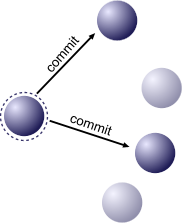
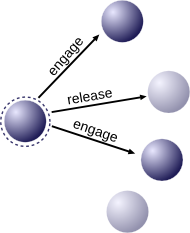
falta resumir pra 8 paginas

diff --git a/2015/tdp/multiagent.tex b/2015/tdp/multiagent.tex
@@ -30,7 +30,7 @@ Equation \ref{eq:egap-total-reward2} determines that agents must allocate tasks 
 	W = \sum_t \sum_{i^t \in \agentset^t} \sum_{j^t \in \taskset^t} w_{ij}^t \times a_{ij}^t - 
 	\sum_t \sum_{j^t \in \taskset^t}(1 - a_{ij}^t) \times d_j^t 
 	\end{equation}
-	\\
+	
 	\begin{equation}
 	\label{eq:egap-total-reward2}
 	\text{ subject to:~~~~~~~~}	
@@ -71,7 +71,7 @@ Regarding independent, i.e., non-constrained tasks, in eXtreme-Ants, agents indi
 \STATE When message is received: $token \gets$ \{received token\}
 
 \FORALL{task $j \in token$} 
-\STATE{Compute and normalize \tendency{i}{j} for all tasks in token}
+\STATE{Compute and normalize \tendency{i}{j} for all tasks in $token$}
 \IF{$random() < \tendency{i}{j}$ and $\agtres{i} > c_{ij}$ }
 \STATE{Engage in task $j$}
 \STATE{$token \gets token \setminus \{j\}$}
@@ -85,31 +85,59 @@ Regarding independent, i.e., non-constrained tasks, in eXtreme-Ants, agents indi
 \label{alg:x-ants}
 \end{algorithm}
 
-To deal with AND-constraints among tasks, eXtreme-Ants uses a process inspired in the recruitment process for cooperative transport observed among ants. When an agent perceives a set of inter-constrained tasks \andtasks{}, it acts as a scout ant. Firstly it attempts to perform all the constrained tasks. If it fails, then it begins a recruitment process. This process is based on communication. There are five kinds of messages used in the recruitment protocol of eXtreme-Ants. A \textit{request} message is an invitation for an agent to join the recruitment for a task. A \textit{commited} message is sent to inform  that the agent joined the recruitment for a task. A \textit{engage} message informs that the agent was indeed selected to perform the task. A \textit{release} message informs that the agent was not selected to perform the task and must decommit to it. A \textit{timeout} message informs that a request for a task has reached its timeout, and is used to prevent deadlocks. The handling of AND-constrained tasks is formalized in Alg. \ref{alg:x-ants-comm}.
+To deal with AND-constraints among tasks, i.e. groups of tasks that demand simultaneous execution, eXtreme-Ants uses a process inspired in the recruitment process for cooperative transport observed among ants. When an agent perceives a set of inter-constrained tasks, it acts as a scout ant. Firstly it attempts to perform all the constrained tasks. If it fails, then it begins a recruitment process via communication. There are five kinds of messages used in the recruitment protocol of eXtreme-Ants. A \msg{request} message is an invitation for an agent to join the recruitment for a task. A \msg{committed} message is sent to inform  that the agent joined the recruitment for a task. A \msg{engage} message informs that the agent was indeed selected to perform the task. A \msg{release} message informs that the agent was not selected to perform the task and must de-commit to it. A \msg{timeout} message informs that the request has expired. Figure \ref{fig:auction} illustrates the recruitment process, except the timeout mechanism. An agent decides to commit to a task probabilistically, via Eq. \ref{eq:tendency}. 
 
+\begin{figure}[ht]
+  \centering
+  \subfigure[]{
+    {\includegraphics[width=3cm]{img/request.png}}
+    \label{fig:request}
+  }%
+  \subfigure[]{
+    {\includegraphics[width=3cm]{img/offer.png}}
+    \label{fig:offer}
+  }%
+  \subfigure[]{
+    {\includegraphics[width=3cm]{img/commit.png}}
+    \label{fig:commit}
+  }%
 
-\begin{algorithm}[ht]
-\begin{algorithmic}
-\STATE When set of constrained tasks \andtasks{} is perceived:
-\STATE{$\beta \gets \emptyset$}
-\IF{ $\agtres{i} \geq \sum_{j \in \andtasks{}} \consumes{i}{j}$}
-	\STATE{Compute and normalize \tendency{i}{j} for all tasks in token}
-	\FORALL{task $j \in \andtasks{}$}
-		\IF{$random() < \tendency{i}{j}$ }
-			\STATE{Accept task $j$; $\beta \gets \beta \cup \{j\}$; $\andtasks{} \gets \andtasks{} \setminus \{j\}$}
-		\ENDIF
-		\IF{All tasks in $\andtasks{}$ were accepted, i.e., $\beta = \andtasks{}$}
-			\STATE{Perform all tasks and set $\agtres{i} \gets \agtres{i} - \sum_{j \in \andtasks{}} \consumes{i}{j}$}
-		%\ELSE
-		%	\STATE{Discard all accepted tasks and set: $\andtasks{} \gets \andtasks{} \cup \beta$}
-	    \ENDIF
-    \ENDFOR 
-\ENDIF
-\STATE{recruit($\andtasks{} \setminus \beta$)}
-\end{algorithmic}
-\caption{Constrained task monitor}
-\label{alg:x-ants-comm}
-\end{algorithm}
+  \caption{Recruitment process: \subref{fig:request} recruiter (circled with dashed line) sends \msg{request} messages; \subref{fig:offer} agents who decide to help respond with \msg{committed} messages; \subref{fig:commit} recruiter sends \msg{engage} to selected teammates and dismisses non-selected ones with \msg{release} messages.}
+
+ \label{fig:auction}
+\end{figure}
+
+In addition to the steps presented in Fig. \ref{fig:auction}, in eXtreme-Ants, a \msg{request} message is forwarded when the agent who received it decides to not commit to the task. Besides, there is a mechanism to prevent excessive forwarding of \msg{request} messages: when a \msg{request} message is forwarded too many times, it expires. The agent that received an expired \msg{request} message sends a \msg{timeout} message to the scout (recruiter) agent. The scout, upon receipt of \msg{timeout} messages, sends \msg{release} messages to dismiss agents that had previously committed to the task. 
+
+The choice of eXtreme-Ants for the multi-agent competition is due to its performance in terms of team reward, computational effort and exchanged messages compared to other E-GAP-based algorithms. Also, it would be interesting to compare its performance with factor-graph based algorithms, such as max-sum, which is implemented in RMASBench \citep{Kleiner+2013}. For further details of eXtreme-Ants implementation and performance, the reader can refer to \citep{Santos&Bazzan2009optmas}.
+
+%The recruitment process used in the Agent competition (Section \ref{sec:recruiting}) a simplification of the recruitment process of eXtreme-Ants. %Thus, Fig. \ref{fig:auction} also illustrates the recruitment process presented here. 
+%In the agent competition we use a simplified version of
+%A \textit{timeout} message informs that a request for a task has reached its timeout, and is used to prevent deadlocks. The handling of AND-constrained tasks is formalized in Alg. \ref{alg:x-ants-comm}.
+
+%
+%\begin{algorithm}[ht]
+%\begin{algorithmic}
+%\STATE When set of constrained tasks \andtasks{} is perceived:
+%\STATE{$\beta \gets \emptyset$}
+%\IF{ $\agtres{i} \geq \sum_{j \in \andtasks{}} \consumes{i}{j}$}
+%	\STATE{Compute and normalize \tendency{i}{j} for all tasks in token}
+%	\FORALL{task $j \in \andtasks{}$}
+%		\IF{$random() < \tendency{i}{j}$ }
+%			\STATE{Accept task $j$; $\beta \gets \beta \cup \{j\}$; $\andtasks{} \gets \andtasks{} \setminus \{j\}$}
+%		\ENDIF
+%		\IF{All tasks in $\andtasks{}$ were accepted, i.e., $\beta = \andtasks{}$}
+%			\STATE{Perform all tasks and set $\agtres{i} \gets \agtres{i} - \sum_{j \in \andtasks{}} \consumes{i}{j}$}
+%		%\ELSE
+%		%	\STATE{Discard all accepted tasks and set: $\andtasks{} \gets \andtasks{} \cup \beta$}
+%	    \ENDIF
+%    \ENDFOR 
+%\ENDIF
+%\STATE{recruit($\andtasks{} \setminus \beta$)}
+%\end{algorithmic}
+%\caption{Constrained task monitor}
+%\label{alg:x-ants-comm}
+%\end{algorithm}
 
 
 %\subsection{E-GAP as a DCOP}
@@ -141,6 +169,4 @@ To deal with AND-constraints among tasks, eXtreme-Ants uses a process inspired i
 %The constraint graph of this DCOP formulation is complete, as there is a constraint between each pair of variables. The total number of constraints can be calculated as $\frac{|\variables|(|\variables|-1)}{2}$. The number of constraints grows quadratically with the number of agents (as each agent is represented by a variable). The domain of the variables, on the worst case, where all agents can allocate all tasks is $2^{t}$ where $t$ is the number of tasks. That is, the domain grows exponentially with the number of tasks. This complex DCOP model requires approximate algorithms to be solved.
 %
 %
-%Usando a divisão do trabalho em colônias de insetos sociais como inspiração para um algoritmo de coordenação entre agentes, \cite{Ferreira2008} apresenta o Swarm-GAP. Nele, cada tarefa possui um estímulo associado e cada indivíduo possui um limiar de resposta associado a cada tarefa. Este limiar depende da habilidade do agente para realizar a tarefa. A probabilidade de um agente alocar uma tarefa para si depende, portanto, do estímulo e ao seu limiar de resposta associados a esta tarefa. O Swarm-GAP reduz a comunicação entre agentes e o esforço computacional para se calcular a alocação de tarefas e obtém resultados semelhantes ao LA-DCOP. No entanto, a decisão probabilística na alocação de tarefas do Swarm-GAP não auxilia a formação de grupos de agentes para lidar com tarefas interdependentes, que requerem execução simultânea, e isso pode ser crítico em alguns casos.
-%
-%O algoritmo eXtreme Ants \cite{Santos2009F}, de maneira similar ao Swarm-GAP, é inspirado na divisão do trabalho de insetos sociais. No entanto, para lidar com a questão de formação de grupos de agentes para tarefas interdependentes, o eXtreme Ants apresenta um processo de recrutamento inspirado no recrutamento para transporte cooperativo em colônias de formigas. Comparado ao LA-DCOP, o eXtreme Ants obtém uma recompensa global próxima, com menos comunicação e esforço computacional. Comparado ao Swarm-GAP, o eXtreme Ants consegue melhores recompensas globais, particularmente na presença de tarefas interdependentes.
+

diff --git a/2015/tdp/conclusion.tex b/2015/tdp/conclusion.tex
@@ -1,10 +1,11 @@
 \section{Conclusion}
 
-To address the challenge posed by a disaster situation, we present an approach that relies on autonomous decision-making agents. This means that no field or center agent can directly assign a task to other agent. Each agent decides the task it will engage based on its current knowledge, accumulated from observation and message receiving. Cooperation emerges when agents decide to engage in the same task, or when help is requested via a recruitment method based on a simple three-step auction. Even during recruitment, agents are not directly recruited: they can decide whether to offer help to the recruiter or not. The role of center agents is informational, thus in their absence, the decision-making process of field agents does not change.
+To address the challenge posed by the agent competition, we present an approach that relies on autonomous decision-making agents. This means that no field or center agent can directly assign a task to other agent. Each agent decides the task it will engage based on its current knowledge, accumulated from observation and communication. Cooperation emerges when agents decide to engage in the same task, or when help is requested via a recruitment method based which is a simplification eXtreme-Ants recruitment process. Even during recruitment, agents are not directly recruited: they can decide whether to offer help to the recruiter or not. The role of center agents is informational, thus in their absence, the decision-making process of field agents does not change.
 
-Our approach relies on map sectorization in order to limit the scope of action of each field agent. The task allocation of field agents is based on the score that they assign to each task, which is associated with the importance and difficulty level of solving the task. 
+Our approach relies on map sectorization in order to limit the scope of action of each field agent. The task allocation of field agents is based on the score that they assign to each task, which is associated with the importance and difficulty level of solving the task. We believe that the proposed approach is flexible and robust. Flexibility comes from the fact that the task allocation process for all agents is similar: they assign scores to the tasks that they know and engage in the task with the highest score. Robustness comes from the fact that agents do not depend on each other to decide which task to engage. Thus, the approach can work for several configurations of team sizes and presence of center agents.
 
-We believe that the proposed approach is flexible and robust. Flexibility comes from the fact that the task allocation process for all agents is similar: they assign scores to the tasks that they know and engage in the task with the highest score. Robustness comes from the fact that agents do not depend on each other to decide which task to engage. Thus, the approach can work for several configurations of team sizes and presence of center agents.
+For the multi-agent competition, we choose to implement eXtreme-Ants in the RMASBench. The algorithm compares favorably to other E-GAP based approaches in terms of team reward, computational effort and exchanged messages. This implementation represents a scientific contribution as we can establish the first comparison of E-GAP and factor graph-based approaches for task allocation in dynamic environments in a single framework.
+%Also, it would be interesting to compare its performance with factor-graph based algorithms, such as max-sum, which is implemented in RMASBench \citep{Kleiner+2013}. For further details of eXtreme-Ants implementation and performance, the reader can refer to \citep{Santos&Bazzan2009optmas}.
 
 %falar das estrategias gerais; resultados esperados
 % em suma, nossos agentes sao 'autonomos', isto eh, nao recebem ordem direta de outros agentes, mas deliberam por conta propria se vao realizar as tarefas ou nao

diff --git a/2015/tdp/communication.tex b/2015/tdp/communication.tex
@@ -18,27 +18,9 @@ In order to save radio bandwidth and maximize the amount of data shared between 
 
 \subsubsection{Recruiting protocol}
 \label{sec:recruiting}
-When an agent estimates that it needs help to perform a task, it starts an auction which consists of the following three steps: first, a ``request'' message is sent by the recruiter agent. Agents who receive the ``request'' message and are available to help  send back an ``offer'' message. Receiving the ``offer'' messages allow the recruiter agent to select the colleagues that will help best in the task. A ``commit'' message is sent to the selected colleagues. Figure \ref{fig:auction} illustrates the three-step auction.
+When an agent estimates that it needs help to perform a task, it starts a recruitment process which consists of the following three steps: first, a \msg{request} message is sent by the recruiter agent to other agents. Agents who receive the \msg{request} message and are available to help  send back an \msg{committed} message. Receiving \msg{committed} messages allows the recruiter agent to select the teammates that will help best in the task. \msg{Engage} messages are sent to the selected teammates and \msg{release} messages are sent to non-selected teammates. This process is a simplification of the recruitment protocol of eXtreme-Ants algorithm (Section \ref{sec:multi-agent}). Figure \ref{fig:auction} illustrates the three-step recruitment process.
 
-\begin{figure}[ht]
-  \centering
-  \subfigure[]{
-    {\includegraphics[width=3cm]{img/request.png}}
-    \label{fig:request}
-  }%
-  \subfigure[]{
-    {\includegraphics[width=3cm]{img/offer.png}}
-    \label{fig:offer}
-  }%
-  \subfigure[]{
-    {\includegraphics[width=3cm]{img/commit.png}}
-    \label{fig:commit}
-  }%
-
-  \caption{Three-step auction: \subref{fig:request} recruiter (circled with dashed line) sends ``request'' messages; \subref{fig:offer} agents who decide to help respond with ``offer'' messages; \subref{fig:commit} recruiter selects colleagues to help and sends ``commit'' messages.}
-
- \label{fig:auction}
-\end{figure}
+% THIS IS A SIMPLIFICATION OF X-ANTS
 
 It should be noted that messages are always broadcasted in a given channel, that is, all agents can hear all messages in the channel. When it is said that a message is directed to a specific agent, the meaning is that the message is broadcasted in the channel but it has additional information so that non-targets of the message can ignore it.
 

diff --git a/2015/tdp/verlab_tdp.tex b/2015/tdp/verlab_tdp.tex
@@ -33,6 +33,7 @@
 \newcommand{\andtasks}[1]{\ensuremath{\alpha_{#1}}}
 \newcommand{\allandtasks}{\ensuremath{\bowtie}}
 
+\newcommand{\msg}[1]{\textit{#1}}
 %\newcommand{\egminus}{E-GAP$^-$}
 
 \newcommand{\stimulus}[1]{\ensuremath{s_#1}}
@@ -42,6 +43,8 @@
 \newcommand{\variables}{\ensuremath{\mathcal{X}}}
 \newcommand{\domains}{\ensuremath{\mathcal{D}}}
 \newcommand{\functions}{\ensuremath{\mathcal{F}}}
+
+
 %\newcommand{\capability}[2]{\ensuremath{f_{#1#2}}}
 
 \begin{document}
@@ -57,8 +60,8 @@
 \maketitle
 
 \begin{abstract}
-This paper describes the strategy of \teamname team to the RoboCup Rescue 2015 Agent \& Multi-agent challenge competition. The importance of this type of simulation is to test and improve plans of rescue in disaster environments. 
-For the agent competition, our approach relies on field agents capable of individual decision making, relegating the center agents to an informational role. Our main contributions are the scheme for prediction of fire evolution done by fire brigades, the behaviour-based strategy for police forces and the simple auction-based scheme for recruiting in tasks that demand more than one agent. For the multi-agent competition, we choose to implement eXtreme Ants, an scalable, swarm intelligence based algorithm for task allocation in dynamic environments.
+This paper describes the strategy of \teamname team to the RoboCup Rescue 2015 Agent \& Multi-agent challenge competition. %The importance of this type of simulation is to test and improve plans of rescue in disaster environments. 
+For the agent competition, our approach relies on field agents capable of individual decision making, relegating the center agents to an informational role. Our main contributions are the scheme for prediction of fire evolution done by fire brigades, the behaviour-based strategy for police forces and the simple auction-based scheme for recruiting in tasks that demand more than one agent. For the multi-agent competition, we choose to implement eXtreme Ants, a scalable, swarm intelligence based algorithm for task allocation in dynamic environments.
 \end{abstract}
 
 %%% SECTION: Introduction
@@ -67,7 +70,7 @@ For the agent competition, our approach relies on field agents capable of indivi
 %\section*{Agent challenge competition}
 
 \section{Agent challenge competition}
-\label{sec:strategies}
+\label{sec:agent}
 
 %%%SUBSECTION: Ambulance team
 \input{ambulance.tex}

diff --git a/2015/tdp/intro.tex b/2015/tdp/intro.tex
@@ -7,4 +7,4 @@ Such situations demand systems that can create robust, dynamic and intelligent s
 
 % must coordinate in order to minimize the damage caused in a city by an earthquake.
 
-This paper describes the strategies that will be used to guide \teamname team in  Robocup Rescue Agent \& Multi-agent challenge competition. It is divided in two main parts. In the first, we describe our main goals in the Agent competition, which are: to develop a model to predict how the fire evolves in burning buildings, to define a behaviour-based strategy for the police force agents, to use an efficient message compression scheme to save bandwidth in communication and to create a simple auction-based method for recruiting in tasks that demand more than one agent. In the second part, we describe our approach to the Multi-agent competition, which involves the implementation of an scalable algorithm based on swarm intelligence for task allocation in dynamic environments, called eXtreme-Ants \citep{Santos&Bazzan2009optmas}.
+This paper describes the strategies that will be used to guide \teamname team in  Robocup Rescue Agent \& Multi-agent challenge competition. It is divided in two main parts. In the first part (Section \ref{sec:agent}), we describe our main goals in the Agent competition, which are: to develop a model to predict how the fire evolves in burning buildings, to define a behaviour-based strategy for the police force agents, to use an efficient message compression scheme to save bandwidth in communication and to create a simple auction-based method for recruiting in tasks that demand more than one agent. In the second part (Section \ref{sec:multi-agent}), we describe our approach to the Multi-agent competition, which involves the implementation of an scalable algorithm based on swarm intelligence for task allocation in dynamic environments, called eXtreme-Ants \citep{Santos&Bazzan2009optmas}.
